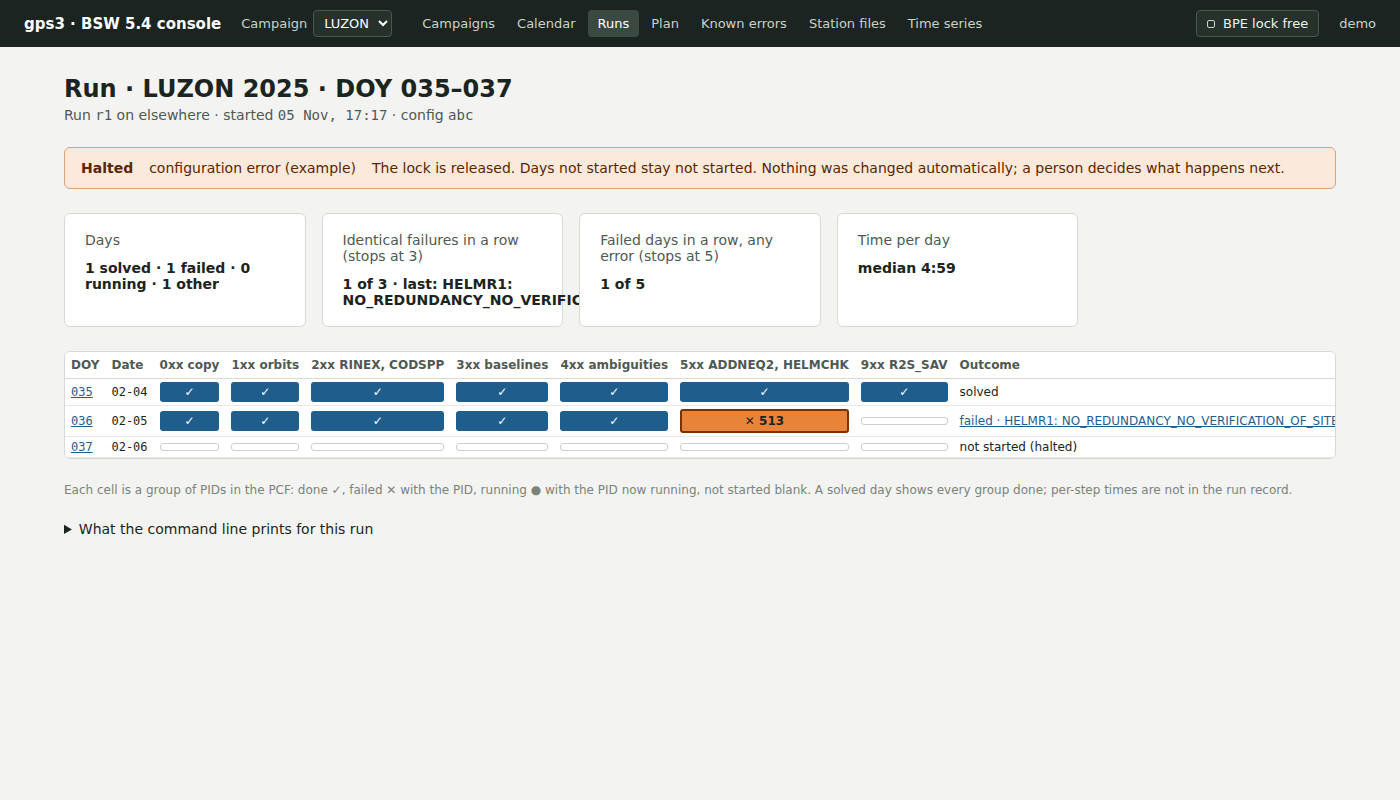
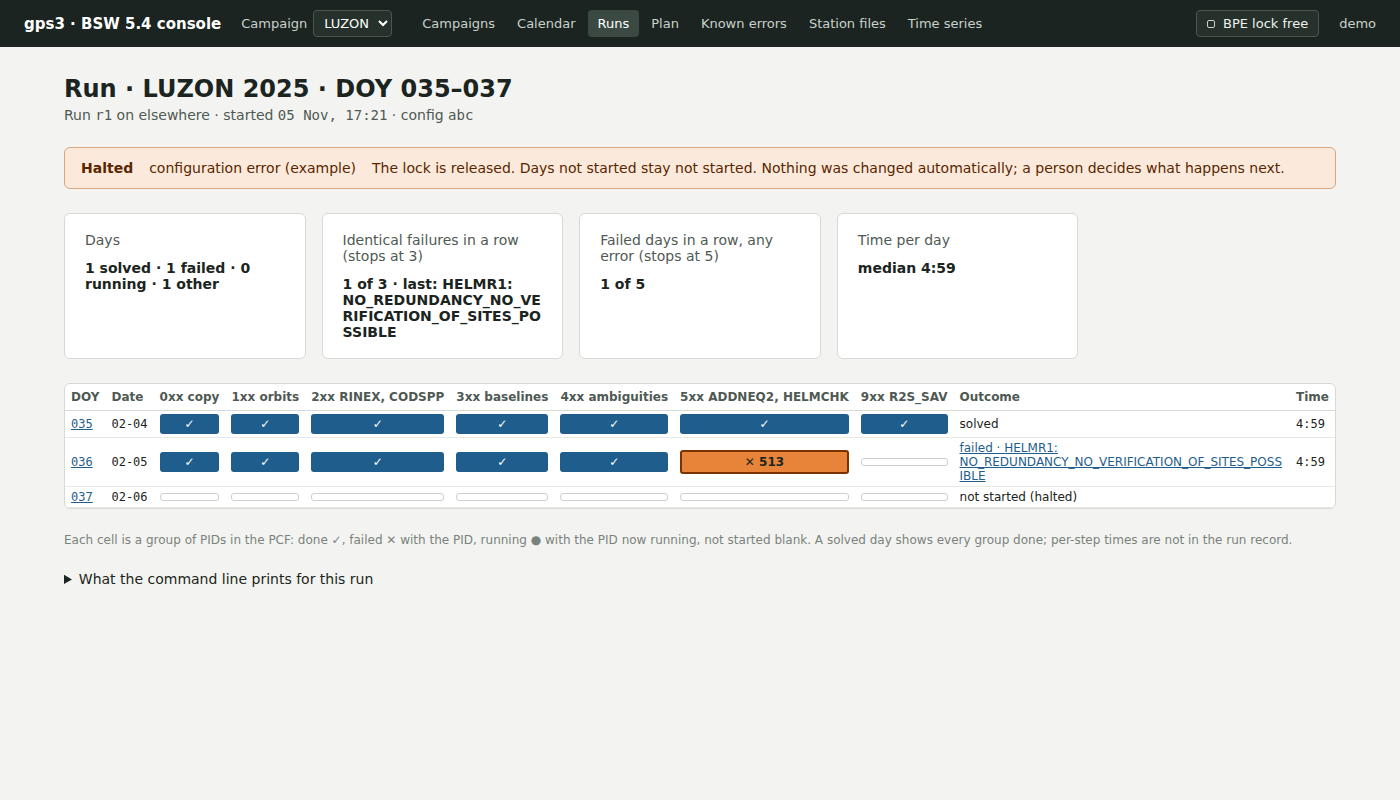
docs(console): screenshots review: real page loads, an honest note, Runs labels wrap
Hash routes are not real navigations, so a wait could pass on the previous page and
save the wrong screen with no error: each shot now loads the page afresh. The script
says plainly that Failure shows the one real protocol file the tests already commit,
and the instruction says the images are not one consistent run. The fixed scratch
folder is removed afterwards, and a missing frontend build stops it with a clear
message. Long failure labels on the Runs page wrap instead of spilling out of their
card, as they already do on the Calendar.

Changed region(s): [[0.0307, 0.375, 0.9521, 0.625], [0.0307, 0.6562, 0.9214, 0.6875], [0.0614, 0.7188, 0.2764, 0.75]]

diff --git a/services/bsw-console/frontend/src/pages/Run.tsx b/services/bsw-console/frontend/src/pages/Run.tsx
@@ -98,7 +98,7 @@ export default function Run({ campaign, year, run }: { campaign: string; year: n
                     </div>
                   </td>
                 ))}
-                <td>
+                <td style={{ whiteSpace: 'normal', overflowWrap: 'anywhere' }}>
                   {x.outcome === 'failed' ? <a href={href.failure(campaign, year, x.doy)}>failed · {x.error}</a> : x.outcome}
                   {x.outcome.startsWith('not started') && x.note && <span className="faint" title={x.note}> ⓘ</span>}
                 </td>

diff --git a/services/bsw-console/frontend/src/styles.css b/services/bsw-console/frontend/src/styles.css
@@ -71,6 +71,7 @@ main { width:100%; max-width:1320px; margin:0 auto; box-sizing:border-box; paddi
 .stack { display:flex; flex-direction:column; gap:12px; }
 .row { display:flex; flex-wrap:wrap; gap:12px 16px; align-items:center; }
 .cards { display:grid; grid-template-columns:repeat(auto-fill,minmax(340px,1fr)); gap:16px; }
+.cards > * { min-width:0; overflow-wrap:anywhere; }
 .cols { display:grid; grid-template-columns:repeat(auto-fit,minmax(380px,1fr)); gap:20px; align-items:start; }
 .cols > * { min-width:0; }
 

diff --git a/scripts/console_screenshots.py b/scripts/console_screenshots.py
@@ -2,17 +2,20 @@
 """Retake the BSW console screenshots in the work instruction.
 
     (cd services/bsw-console/frontend && npm ci && npm run build)
-    uv run --extra bsw-console --with playwright==1.64.1 --with requests \
+    uv run --extra dev --extra bsw-console --with playwright==1.64.1 \
         python scripts/console_screenshots.py
 
 Run it when a screen the instruction shows has changed. It needs Playwright's
-Chromium (`playwright install chromium`).
+Chromium (`uv run --with playwright==1.64.1 playwright install chromium`).
 
-EVERYTHING SHOWN IS SYNTHETIC. This repository is public, so anything in an image
-is published. The console runs here on the test suite's made-up tree
+THE DATA IS THE TEST SUITE'S, NOT GPS3'S. This repository is public, so anything in
+an image is published. The console runs here on the test suite's made-up tree
 (services/bsw-console/tests/conftest.py) plus a made-up time series below, in a
 scratch folder, on a free port, with its own state, signed in as "demo". It never
 reads gps3's data and cannot queue a real run or write to the real decision record.
+One thing on screen is real: the Failure page's protocol file is the HELMR1 failure
+captured from LZY250360, a fixture already committed under
+services/bernese-workflow/tests/fixtures/bpe_errors, with gps3's paths in it.
 """
 
 from __future__ import annotations
@@ -28,7 +31,6 @@ import threading
 import time
 from pathlib import Path
 
-import requests
 import uvicorn
 from playwright.sync_api import Page, sync_playwright
 
@@ -147,6 +149,9 @@ def plan_inputs(s: Settings) -> None:
 
 
 def settings() -> Settings:
+    dist = REPO / "services/bsw-console/frontend/dist"
+    if not (dist / "index.html").is_file():
+        raise SystemExit(f"no frontend build in {dist}: see this script's header")
     shutil.rmtree(SCRATCH, ignore_errors=True)
     SCRATCH.mkdir(parents=True)
     s = build(SCRATCH)
@@ -156,9 +161,8 @@ def settings() -> Settings:
     return dataclasses.replace(
         s,
         ts_offsets=offsets,
-        ts_reference="REF0",
         trusted_proxies=frozenset({"127.0.0.1"}),
-        static_dir=REPO / "services/bsw-console/frontend/dist",
+        static_dir=dist,
         # The buttons as gps3 has them. Nothing here presses Start, and this
         # queue is in the scratch folder, so nothing would run if it did.
         actions_enabled=True,
@@ -184,19 +188,27 @@ def serve(s: Settings) -> tuple[str, uvicorn.Server]:
             create_app(s), host="127.0.0.1", port=port, proxy_headers=False, log_level="warning"
         )
     )
-    threading.Thread(target=server.run, daemon=True).start()
-    url = f"http://127.0.0.1:{port}"
+    thread = threading.Thread(target=server.run, daemon=True)
+    thread.start()
     for _ in range(100):
-        try:
-            requests.get(f"{url}/api/session", timeout=1)
-            return url, server
-        except requests.ConnectionError:
-            time.sleep(0.1)
+        if server.started:
+            return f"http://127.0.0.1:{port}", server
+        if not thread.is_alive():
+            break
+        time.sleep(0.1)
     raise SystemExit("the console did not start")
 
 
-def shoot(page: Page, url: str, route: str, out: Path, wait_for: str, click_day: int = 0) -> None:
+def open_route(page: Page, url: str, route: str) -> None:
+    """Load the route from nothing. Going from one hash route to another is not a
+    navigation: goto returns at once, networkidle has already fired, and the previous
+    page is still on screen, so a wait for its text would pass and shoot the wrong page."""
+    page.goto("about:blank")
     page.goto(f"{url}/{route}")
+
+
+def shoot(page: Page, url: str, route: str, out: Path, wait_for: str, click_day: int = 0) -> None:
+    open_route(page, url, route)
     page.get_by_text(wait_for).first.wait_for(timeout=20000)
     page.wait_for_load_state("networkidle")
     if click_day:
@@ -209,7 +221,7 @@ def shoot(page: Page, url: str, route: str, out: Path, wait_for: str, click_day:
 def time_series_shots(page: Page, url: str, out: Path) -> None:
     """The decision form on the flagged spike, then the whole page once it is
     recorded, on this scratch console, so the ring and the not-published fit show."""
-    page.goto(f"{url}/#/c/LUZON/{YEAR}/time-series")
+    open_route(page, url, f"#/c/LUZON/{YEAR}/time-series")
     page.locator("label", has_text="Station").locator("select").last.select_option("SYN1")
     page.wait_for_selector("[data-testid=ts-plot] canvas", timeout=20000)
     page.wait_for_load_state("networkidle")
@@ -227,6 +239,8 @@ def time_series_shots(page: Page, url: str, out: Path) -> None:
             break
     else:
         raise SystemExit(f"could not click {epoch}")
+    # The buttons need /api/session, which the form only starts to fetch once it opens.
+    page.get_by_role("button", name="Confirm outlier").wait_for(timeout=20000)
     page.locator("#ts-decide").locator("..").screenshot(path=out / "outlier_decision.png")
     page.get_by_role("button", name="Confirm outlier").click()
     page.get_by_role("button", name="Undo decision").wait_for(timeout=20000)
@@ -271,6 +285,7 @@ def main() -> int:
     finally:
         server.should_exit = True
         worker.close()
+        shutil.rmtree(SCRATCH, ignore_errors=True)
     return 0
 
 

diff --git a/docs/bsw_console_work_instruction_draft.md b/docs/bsw_console_work_instruction_draft.md
@@ -17,7 +17,9 @@ who does it.
 
 **The screenshots use made-up data**: synthetic stations (`SYN1`, `REF0`), days and
 run records, signed in as `demo`. They show what each page looks like, not any real
-result. `scripts/console_screenshots.py` retakes them when a page changes.
+result. The one exception is the protocol file on the Failure page, a real captured
+failure kept as a test fixture. `scripts/console_screenshots.py` retakes them when a
+page changes. Each one shows what one page looks like, so they don't add up to one consistent run: a day can read differently from one image to the next.
 
 ## 1. Objective and scope
 
@@ -111,7 +113,6 @@ shows them but does not edit them yet.
 | 5.3.4–5.3.9 Create STA (RNX2STA), CRD and ABB (RXOBV3), ATL (GRDS1S2), PLD (EDITPLD), VEL (NUVELO), CLU (EDITCLU) | Maintainer task on gps3. Open **Station files** to see, for each station, which of the eight files list it and which don't, and codes that appear under two names |
 | 5.3.10 BLQ from the Chalmers ocean-loading service | Still manual: the service is external and replies by email. The maintainer merges the reply with `scripts/merge_blq.py`. **Station files** lists stations missing from the BLQ, and counts anything after `$$ END TABLE` as missing |
 | 5.3.11 Copy the eight files into `DATAPOOL\REF52` | Maintainer task. On gps3 the reference folder is `REF54` |
-
 
 ![Station files page: one row per station, a tick for each of the eight files that lists it. NEW1 has a dash under BLQ and a note that ocean loading would fail.](images/bsw_console/station_files.png)
 

diff --git a/scripts/README.md b/scripts/README.md
@@ -107,6 +107,7 @@ looks exactly like success (`CLAUDE.md`, Branching & Merge Policy).
 | `gh_retarget.sh` | change a PR's base branch |
 | `git_merge_main.sh`, `git_merge_ref.sh` | merge `origin/main` or another ref into the current branch |
 | `local_ci.py` | the CI that actually runs while GitHub Actions is locked: cron on gps3, posts `local-ci/gps3` |
+| `console_screenshots.py` | retake the BSW console screenshots in the work instruction, on the test suite's synthetic tree |
 | `audit_doc_references.py` | find documentation citing files that no longer exist |
 | `gnss_mirror_update.sh` | refresh the PHIVOLCS-held mirror of this repository |
 
